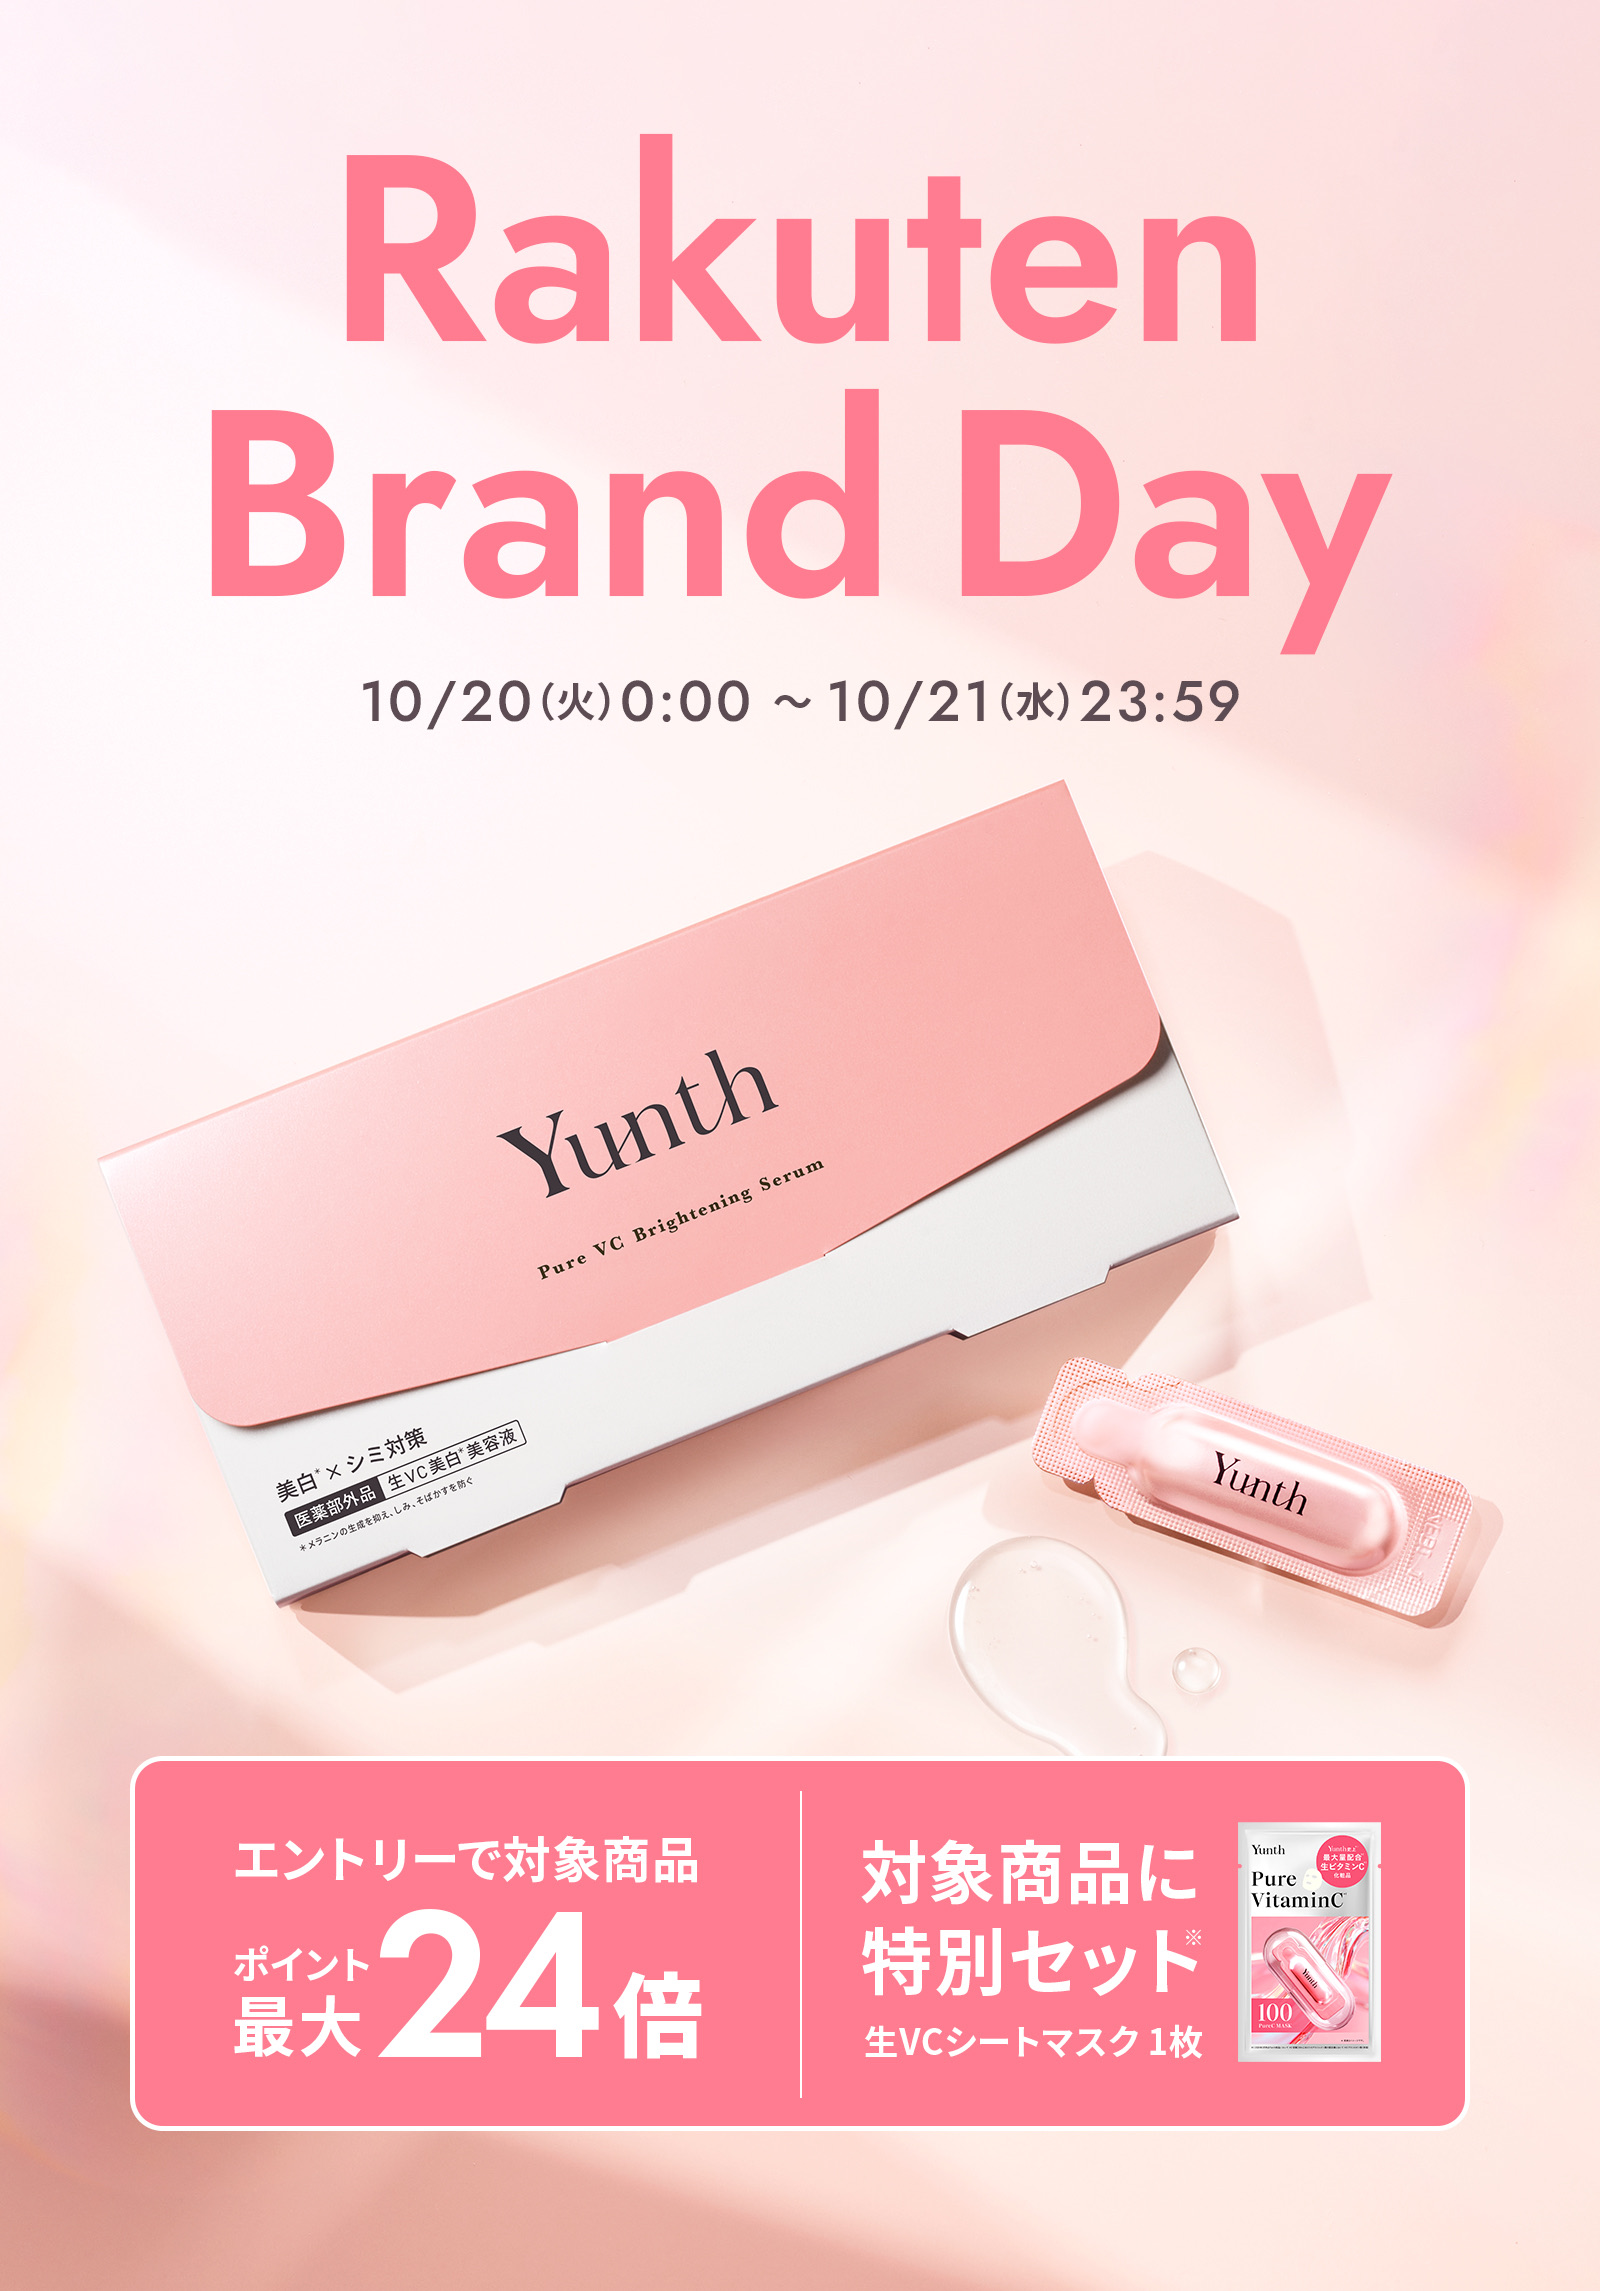
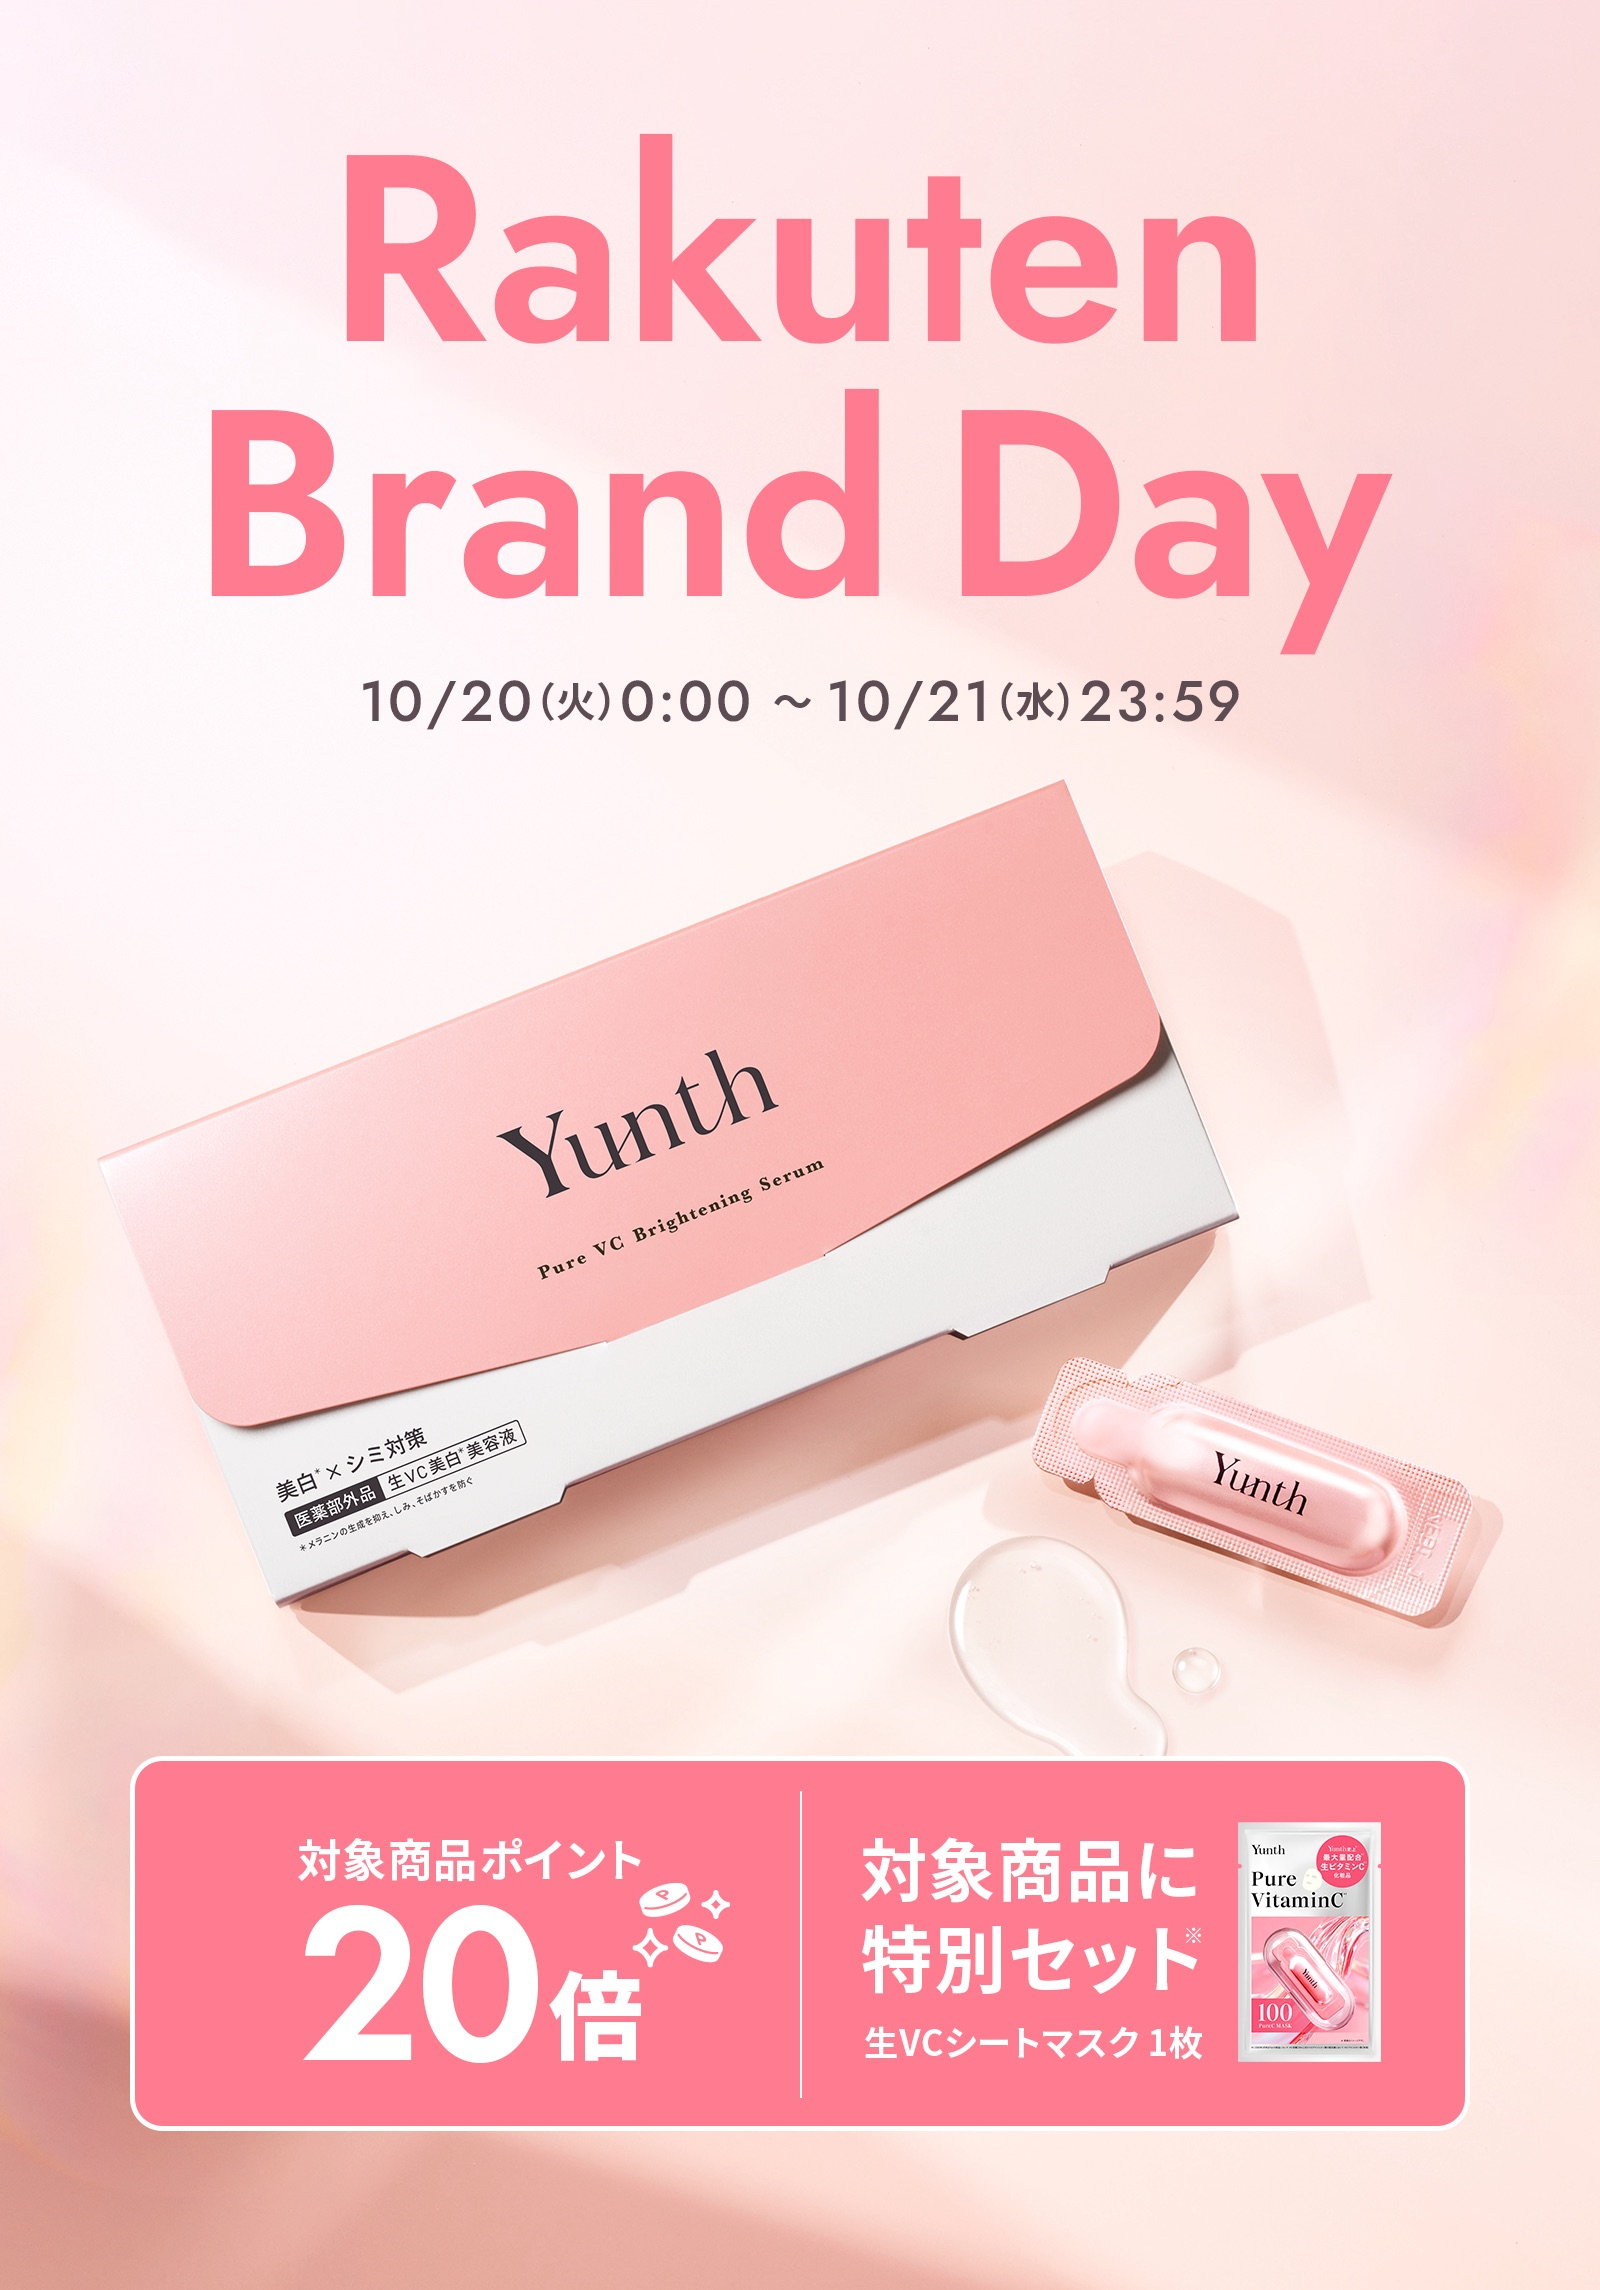
feat: FV image updated to 20x version

diff --git a/index.html b/index.html
@@ -356,7 +356,7 @@ sup{font-size:clamp(8px,.4em,12px);font-weight:500;vertical-align:super;line-hei
 <header class="fv">
   <div class="fv-head"><a href="https://www.rakuten.co.jp/yunth/" class="logo"><img src="images/logo.png" alt="Yunth"></a></div>
   <div class="fv-main">
-    <h1><img src="images/fv.jpg" width="1600" height="2291" alt="Rakuten Brand Day 10/20(火)0:00〜10/21(水)23:59 エントリーで対象商品ポイント最大24倍／対象商品に特別セット 生VCシートマスク1枚"></h1>
+    <h1><img src="images/fv.jpg?v=20" width="1600" height="2290" alt="Rakuten Brand Day 10/20(火)0:00〜10/21(水)23:59 対象商品ポイント20倍／対象商品に特別セット 生VCシートマスク1枚"></h1>
     <canvas class="confetti" id="confetti" aria-hidden="true"></canvas>
     <p class="fv-cap">※【公式】Yunth Store楽天市場店でご購入に限る。</p>
   </div>
